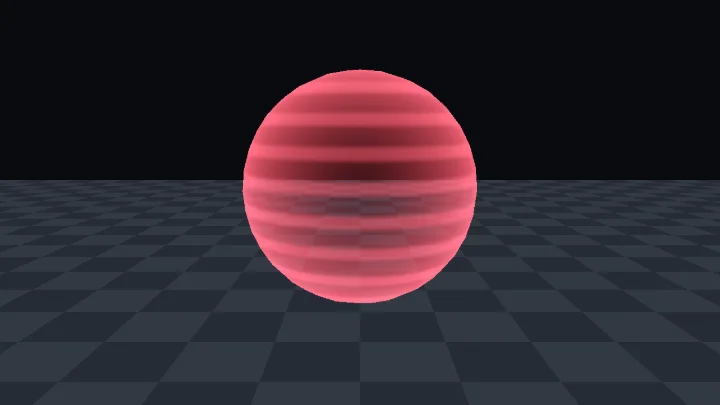
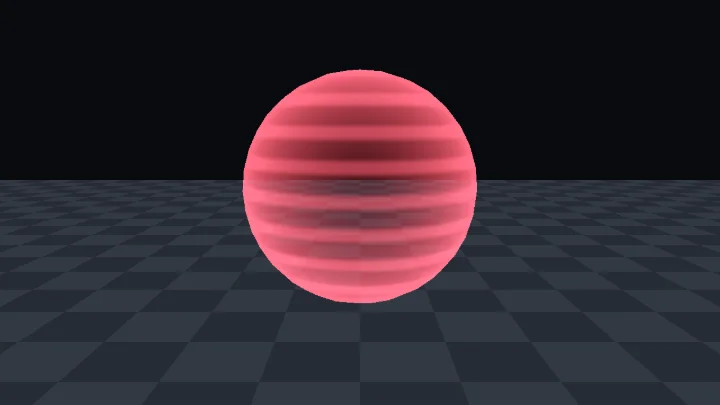
dispatch(hologram-scanline-glitch-fix): 표본 수정: hologram-scanline-glitch 리뷰 반영
Dispatch-Job: hologram-scanline-glitch-fix
Dispatch-Profile: org
Dispatch-Model: claude-opus-5-5

Changed region(s): [[0.3361, 0.1778, 0.6722, 0.7407]]

diff --git a/web/src/specimens/hologram-scanline-glitch/meta.ts b/web/src/specimens/hologram-scanline-glitch/meta.ts
@@ -11,7 +11,7 @@ export const meta: SpecimenMeta = {
     '월드 높이(`positionWS.y`)로 메시 이음매와 회전에 상관없이 이어지는 스캔라인을 그릴 수 있다.',
     '`floor` 로 시간을 끊어 정점 띠를 툭툭 튀게 미는 글리치를 만들 수 있다.',
     '프레넬, 스캔라인, 깜빡임을 더하기 혼합으로 합쳐 투명한 빛의 물체를 만들 수 있다.',
-    '정점 글리치의 띠 폭이 메시의 정점 간격보다 넓어야 하는 이유를 설명할 수 있다.',
+    '정점을 미는 글리치에서 띠 경계가 찢어지는 이유와 띠 폭을 정점 간격의 두 배 이상으로 두는 이유를 설명할 수 있다.',
   ],
   tags: ['프레넬', '정점 변형', '시간 양자화', '더하기 혼합', '월드 좌표'],
   difficulty: 2,
@@ -24,14 +24,14 @@ export const meta: SpecimenMeta = {
     { key: '_LineSpacing', label: '스캔라인 간격', type: 'range', min: 0.02, max: 0.3, step: 0.005, default: 0.08, unit: ' m', hint: '월드 높이 기준 줄 사이 거리. 물체 크기와 상관없이 같은 간격이다' },
     { key: '_ScanSpeed', label: '스캔라인 속도', type: 'range', min: -1, max: 1, step: 0.01, default: 0.3, unit: ' m/s', hint: '양수면 위로, 음수면 아래로 흐른다' },
     { key: '_GlitchStrength', label: '글리치 세기', type: 'range', min: 0, max: 1, step: 0.01, default: 0.5, hint: '클수록 글리치가 자주 오고 띠가 멀리 밀린다. 0 이면 멈춘다' },
-    { key: '_Flicker', label: '깜빡임 세기', type: 'range', min: 0, max: 1, step: 0.01, default: 0.35, hint: '0.5 초마다 난수로 어두워지는 깊이. 바뀌는 횟수는 초당 2 번으로 고정이다' },
-    { key: '_Dropout', label: '전송 끊김', type: 'range', min: 0, max: 1, step: 0.01, default: 0, hint: 'C# 에서 끊기는 순간 1 로 올렸다 내린다. 글리치가 몰리고 잠깐 어두워진다' },
+    { key: '_Flicker', label: '깜빡임 세기', type: 'range', min: 0, max: 1, step: 0.01, default: 0.35, hint: '0.5 초 칸마다 반반 확률로 어두워지는 깊이. 시간은 게임 배속을 따르므로 배속이 있는 게임에서는 0 으로 둔다' },
+    { key: '_Dropout', label: '전송 끊김', type: 'range', min: 0, max: 1, step: 0.01, default: 0, hint: 'C# 에서 끊기는 순간 1 로 올렸다 내린다. 글리치가 몰리고, 밀린 띠가 하얗게 바래며, 잠깐 어두워진다' },
   ],
   presets: [
     { id: 'projector', name: '투영 홀로그램', look: '하늘색 테두리와 위로 흐르는 줄, 가끔 튀는 띠', values: {} },
     { id: 'unstable-signal', name: '불안정한 신호', look: '띠가 자주 크게 튀고 밝기가 흔들린다', values: { _HoloColor: '#6dffb4', _GlitchStrength: 0.95, _Flicker: 0.8, _ScanSpeed: 0.7, _LineSpacing: 0.12 } },
     { id: 'calm-display', name: '안정된 안내 표시', look: '촘촘하고 느린 호박색 줄, 글리치 없음', values: { _HoloColor: '#ffb347', _GlitchStrength: 0, _Flicker: 0.05, _LineSpacing: 0.035, _ScanSpeed: 0.08, _RimPower: 3 } },
-    { id: 'warning', name: '경고 투영', look: '굵은 빨간 줄이 아래로 내려가고 몸 전체가 붉게 번진다', values: { _HoloColor: '#ff4d5e', _RimPower: 1, _LineSpacing: 0.18, _ScanSpeed: -0.5 } },
+    { id: 'warning', name: '경고 투영', look: '굵은 빨간 줄이 천천히 내려가고 몸 전체가 붉게 번진다. 넓은 빨강이라 줄이 한 점을 지나는 횟수를 초당 2 번 아래로 낮추고 깜빡임을 약하게 했다', values: { _HoloColor: '#ff4d5e', _RimPower: 1, _LineSpacing: 0.18, _ScanSpeed: -0.3, _Flicker: 0.1 } },
   ],
   events: [
     {
@@ -44,16 +44,16 @@ export const meta: SpecimenMeta = {
   steps: [
     { n: 1, label: '프레넬', body: '법선과 시선이 비스듬할수록 밝다. 가운데는 검고 윤곽으로 갈수록 밝아져 테두리가 흰 고리가 된다. 홀로그램이 속이 빈 빛의 껍데기처럼 보이는 바탕이다.' },
     { n: 2, label: '스캔라인', body: '월드 높이 `positionWS.y` 를 간격으로 나눠 `frac` 한 흰 줄과 검은 틈이다. 시간을 빼서 위로 흐른다. 구가 돌아도 줄은 늘 수평이고, 글리치로 밀려난 조각에서도 줄이 월드 높이를 따라 다시 그어진다.' },
-    { n: 3, label: '글리치 띠 마스크', body: '구를 가로 띠 대여섯 개로 나눈 모습이다. 어두운 회색과 조금 밝은 회색이 번갈아 띠 폭을 보여 주고, 지금 옆으로 밀려난 띠만 흰색이다. 시간을 `floor` 로 0.1 초 칸에 끊어 고르므로 흰 띠는 멈춰 있다가 한 번에 바뀐다. 흰 띠가 안 보이면 잠시 기다리거나 전송 끊김 버튼을 누른다.' },
-    { n: 4, label: '합치기', body: '테두리, 옅은 몸통, 스캔라인을 더한 밝기에 깜빡임을 곱했다. 바닥이 비치지 않게 화면에 더해질 빛만 꺼내 본 모습이고, 최종 화면에서는 이 빛이 더하기 혼합으로 바닥 위에 얹힌다. 밀린 띠는 흰빛으로 바래고, 0.5 초마다 몸 전체가 조금 어두워졌다 돌아온다.' },
+    { n: 3, label: '글리치 띠 마스크', body: '구를 가로 띠 네다섯 개로 나눈 모습이다. 어두운 회색과 조금 밝은 회색이 번갈아 띠 폭을 보여 주고, 지금 옆으로 밀려난 띠만 흰색이다. 시간을 `floor` 로 0.1 초 칸에 끊어 고르므로 흰 띠는 멈춰 있다가 한 번에 바뀐다. 흰 띠가 안 보이면 잠시 기다리거나 전송 끊김 버튼을 누른다.' },
+    { n: 4, label: '합치기', body: '테두리, 옅은 몸통, 스캔라인을 더한 밝기에 깜빡임을 곱했다. 바닥이 비치지 않게 화면에 더해질 빛만 꺼내 본 모습이고, 최종 화면에서는 이 빛이 더하기 혼합으로 바닥 위에 얹힌다. 0.5 초 칸마다 반반 확률로 몸 전체가 조금 어두워진다. 밀린 띠가 흰빛으로 바래는 것은 전송 끊김 중일 때뿐이다.' },
   ],
   offNote: '시간을 `floor` 로 끊지 않고 `sin` 에 그대로 넣은 흔한 실수. 띠가 툭툭 튀는 신호 오류가 아니라 구 전체가 젤리처럼 꿈틀대는 물결이 되어 전송이 끊기는 느낌이 사라진다.',
   mistakes: [
     { title: '스캔라인이 메시 이음매에서 끊기거나 물체를 따라 돈다', body: 'UV 로 줄을 그리면 UV 가 잘린 이음매에서 줄이 어긋나고, 물체가 기울면 줄도 같이 기운다. 캐릭터처럼 UV 가 조각난 메시에서는 줄 간격도 부위마다 달라진다. 정점에서 `TransformObjectToWorld` 로 구한 월드 위치의 y 를 쓴다.' },
     { title: '글리치가 디지털 끊김이 아니라 물결처럼 출렁인다', body: '`sin(time)` 처럼 매끄러운 시간을 그대로 쓰면 띠가 부드럽게 미끄러진다. `floor(time * 10.0)` 으로 시간을 칸으로 끊고 그 칸 번호로 난수를 뽑아야 멈춰 있다가 한 번에 튄다.' },
-    { title: 'Unity 에서 띠가 계단으로 튀지 않고 비스듬히 찢어진다', body: '정점을 미는 효과는 정점이 있는 곳만 움직인다. 띠 폭이 메시의 정점 간격보다 좁으면 띠 경계의 삼각형만 늘어나 계단이 사라진다. Unity 기본 구는 위도 간격이 약 0.1 이라 띠 폭을 0.2(`HOLOGRAM_GLITCH_BANDS` 5)로 두었다. 로우폴리 모델은 띠 수를 줄이거나 모델을 더 잘게 나눈다.' },
+    { title: '밀린 띠가 계단이 아니라 혹처럼 꿈틀대 보인다', body: '정점을 미는 효과는 정점만 움직이고 그 사이 삼각형은 늘어난다. 위아래 정점이 서로 다른 띠에 걸친 경계 한 칸은 정점 간격이 얼마든 늘 비스듬히 찢어진다. 그래서 띠 안에 곧게 밀리는 칸이 남도록 띠 폭을 정점 간격의 두 배 이상으로 둔다. Unity 기본 구는 정점 간격이 약 0.1 이라 띠 폭을 0.25(`HOLOGRAM_GLITCH_BANDS` 4)로 두었다. 0.2 로 좁히면 곧은 칸이 거의 없어 띠가 혹처럼 보인다. 로우폴리 모델은 띠 수를 더 줄이거나 모델을 잘게 나눈다.' },
     { title: '뒤에 있는 홀로그램이 사라지거나 겹친 곳이 깨진다', body: '투명 물체가 `ZWrite On` 이면 앞 물체가 깊이를 차지해 뒤 물체가 그려지지 않는다. 이 셰이더는 `ZWrite Off` 와 더하기 혼합이라 순서와 상관없이 빛이 더해진다. 알파 혼합으로 바꾸면 겹친 투명 물체의 정렬 문제가 다시 생긴다.' },
-    { title: '깜빡임이 눈을 찌른다', body: '물체 전체가 빠르게 반복해 밝아졌다 어두워지면 광과민 발작 위험이 있다. 깜빡임은 `HOLOGRAM_FLICKER_RATE` 2(밝기가 초당 2 번까지만 바뀜) 이하로 두고, 끊김 연출은 `HologramGlitchBurst` 의 `minInterval` 로 실제 시간 기준 초당 3 회를 넘지 않게 막는다.' },
+    { title: '깜빡임이 눈을 찌르거나 배속에서 빨라진다', body: '물체 전체가 빠르게 반복해 밝아졌다 어두워지면 광과민 발작 위험이 있다. 셰이더 깜빡임은 `HOLOGRAM_FLICKER_RATE` 2 라 보통 속도에서는 밝기가 초당 2 번까지만 바뀌지만, Play 중 `_Time` 은 `Time.timeScale` 을 따라 배속 3 이면 깜빡임이 3Hz, 글리치가 초당 30 번이 된다. 배속이 있는 게임에서는 `_Flicker` 를 0 으로 둔다. `HologramGlitchBurst` 는 실제 시간으로 세어 초당 3 회를 넘지 않게 막지만 셰이더 깜빡임과 합쳐 세야 하므로 `Burst()` 를 자주 부르면 `_Flicker` 도 낮춘다. 시간만으로 고르므로 같은 머티리얼을 쓰는 홀로그램은 모두 같은 순간에 어두워지고 같은 띠가 튀어, 번쩍이는 면적이 그만큼 커진다. 물체마다 어긋나게 하려면 래퍼에 `_TimeOffset` 속성(CBUFFER 안)을 더해 `_Time.y + _TimeOffset` 을 `sgVertex` 와 `i.time` 에 넘기고, C# `Awake` 에서 `renderer.material` 복사본에 `Random.Range(0f, 10f)` 를 넣는다.' },
   ],
   unity: {
     setup: [
@@ -66,12 +66,13 @@ export const meta: SpecimenMeta = {
     verify: 'Play 하면 윤곽이 하늘색으로 빛나고 수평 줄이 위로 흐르며, 가끔 가로 띠가 옆으로 툭 밀렸다 돌아온다. 물체를 돌려도 줄은 수평을 유지하고, 글리치 세기를 0 으로 내리면 띠가 멈춘다.',
     pitfalls: [
       '이 셰이더에는 `UniversalForward` 패스만 있어 2D Renderer 에서는 그려지지 않는다. 3D 프로젝트용 효과다.',
-      '글리치 띠는 `positionOS` 의 높이로 나눈다. Batching Static 으로 정적 배칭된 물체는 정점이 월드 좌표로 합쳐져 `positionOS` 가 월드 위치가 되므로 띠 폭과 미는 방향이 월드 기준으로 바뀐다. 홀로그램 물체는 Static 에서 Batching Static 을 끈다.',
-      '정점을 옆으로 밀어도 메시의 바운드는 그대로다. 미는 거리가 작아 보통 문제없지만 물체가 화면 가장자리에 걸리면 밀린 띠가 잘려 보일 수 있다.',
+      '글리치 띠는 오브젝트 공간 높이 `positionOS.y` 로 나누고 미는 거리도 오브젝트 공간 값이다 (스캔라인만 월드 기준이라 늘 수평). 캐릭터처럼 Blender 에서 FBX 로 가져온 모델은 Transform 이 회전 X -90, 크기 100 으로 들어오는 일이 많은데, 그러면 띠가 세로로 서거나 정점이 한 띠에 뭉치고 미는 거리가 100 배로 커진다. Blender 의 FBX 내보내기에서 Apply Scalings 를 FBX All 로 두고 Apply Transform 을 켜거나, Unity 모델 Import Settings 의 Bake Axis Conversion 으로 회전을 정점에 굽혀, 물체의 Transform 이 회전 0, 크기 1 이 되게 맞춘다. XR 에서 손에 든 물체가 기울면 띠도 물체를 따라 기울고 스캔라인은 수평으로 남는다. Batching Static 으로 정적 배칭된 물체는 정점이 월드 좌표로 합쳐져 `positionOS` 가 월드 위치가 되므로 홀로그램 물체는 Static 에서 Batching Static 을 끈다.',
+      '정점을 옆으로 밀어도 메시의 바운드는 그대로다. 물체가 화면 가장자리에 있어 바운드가 화면 밖으로 나가면 컬링되어, 화면 안으로 밀려 나온 띠까지 통째로 사라진다. 미는 거리(최대 0.18)가 작아 가장자리에서만 생기지만, 문제가 되면 C# 에서 `Renderer.localBounds` 를 미는 거리만큼 넓힌다.',
       '투명 물체라 그림자를 만들지 않고 깊이 텍스처에도 들어가지 않는다. 깊이를 읽는 다른 효과(역장 교차선 등)는 홀로그램을 보지 못한다.',
       'XR 에서는 투명 면이 겹칠수록 픽셀을 여러 번 칠한다(과드로우). 큰 홀로그램 여러 개를 겹치면 모바일 XR 기기에서 프레임이 떨어질 수 있다.',
+      'Play 중 셰이더의 `_Time` 은 `Time.timeScale` 을 따른다. 배속 3 이면 셰이더 깜빡임이 3Hz, 글리치가 초당 30 번으로 빨라지고, 0 이면 멈춘다. 배속이 있는 게임에서는 머티리얼의 `_Flicker`(깜빡임 세기)를 0 으로 둔다. `HologramGlitchBurst` 의 제한은 실제 시간으로 세므로 배속과 상관없다.',
     ],
-    graph: 'Shader Graph 에서는 Fresnel Effect 노드로 테두리를, Position(World) 노드의 Y 를 간격으로 나눠 Fraction 노드로 스캔라인을 만든다. 정점 글리치는 Custom Function 노드에서 `sgVertex` 를 불러 Vertex Position 에 연결하고, Time 노드에 곱한 값을 Floor 로 끊어 넘긴다.',
+    graph: 'Shader Graph 에서는 Fresnel Effect 노드로 테두리를, Position(World) 노드의 Y 를 간격으로 나눠 Fraction 노드로 스캔라인을 만든다. 정점 글리치는 Custom Function 노드에서 `sgVertex` 를 불러 Vertex Position 에 연결하고, Time 노드의 Time 을 그대로 넘긴다. `sgVertex` 가 안에서 `floor(time * 10.0)` 으로 끊으므로 미리 Floor 로 끊어 넘기면 띠가 1 초에 한 번만 바뀐다.',
   },
   prompt: {
     goal: '3D 물체를 하늘색 홀로그램으로 보이게 하는 투명 셰이더를 넣는다. 윤곽이 빛나고 수평 스캔라인이 흐르며, 가로 띠가 가끔 툭 밀리는 글리치와 깜빡임이 있고, 전송이 끊기는 순간에는 C# 로 글리치를 잠깐 몰아 준다.',
@@ -85,7 +86,7 @@ export const meta: SpecimenMeta = {
   },
   captures: [
     { name: 'dropout', label: '전송 끊김', values: { _Dropout: 0.8 } },
-    { name: 'warning', label: '경고 투영', values: { _HoloColor: '#ff4d5e', _RimPower: 1, _LineSpacing: 0.18, _ScanSpeed: -0.5 } },
+    { name: 'warning', label: '경고 투영', values: { _HoloColor: '#ff4d5e', _RimPower: 1, _LineSpacing: 0.18, _ScanSpeed: -0.3, _Flicker: 0.1 } },
   ],
   inspiredBy: [],
   original: '특정 게임의 재현이 아니라 널리 쓰이는 범용 기법이다. 수업 3D 07 External Assets 에 들어 있는 `Holographic` 셰이더 그래프처럼 원리 없이 쓰던 효과를 프레넬, 월드 스캔라인, 양자화한 정점 글리치, 깜빡임으로 나눠 다시 만들었다. 코드는 이 갤러리에서 새로 작성했다.',

diff --git a/Assets/Shaders/hologram-scanline-glitch/HologramGlitchBurst.cs b/Assets/Shaders/hologram-scanline-glitch/HologramGlitchBurst.cs
@@ -11,7 +11,8 @@ namespace ShaderGallery.Samples
 
         [SerializeField] float holdSeconds = 0.12f;
         [SerializeField] float fadeSeconds = 0.68f;
-        // 물체 전체가 어두워졌다 돌아오므로 실제 시간으로 1 초에 3 번을 넘지 않게 막는다. 0.34 아래로 낮추지 않는다.
+        // 물체 전체가 어두워졌다 돌아오므로 실제 시간으로 1 초에 3 번을 넘지 않게 막는다.
+        // Inspector 에서 더 낮춰도 코드가 0.34 초 아래로는 내려가지 않게 한다.
         [SerializeField] float minInterval = 0.34f;
 
         Material material;
@@ -36,7 +37,7 @@ namespace ShaderGallery.Samples
             {
                 return;
             }
-            if (Time.unscaledTime - lastBurstTime < minInterval)
+            if (Time.unscaledTime - lastBurstTime < Mathf.Max(minInterval, 0.34f))
             {
                 return;
             }
@@ -60,8 +61,8 @@ namespace ShaderGallery.Samples
         void OnDisable()
         {
             // 끊기던 중에 꺼져도 글리치가 남지 않게 되돌린다.
+            // lastBurstTime 은 지우지 않는다. 껐다 켜는 것으로 초당 3 회 제한을 피하지 못하게 한다.
             StopAllCoroutines();
-            lastBurstTime = float.NegativeInfinity;
             if (material != null)
             {
                 material.SetFloat(Dropout, 0f);
